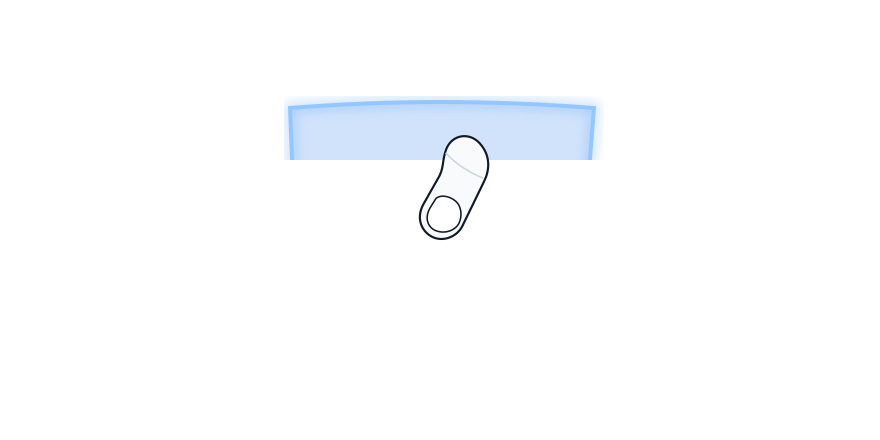
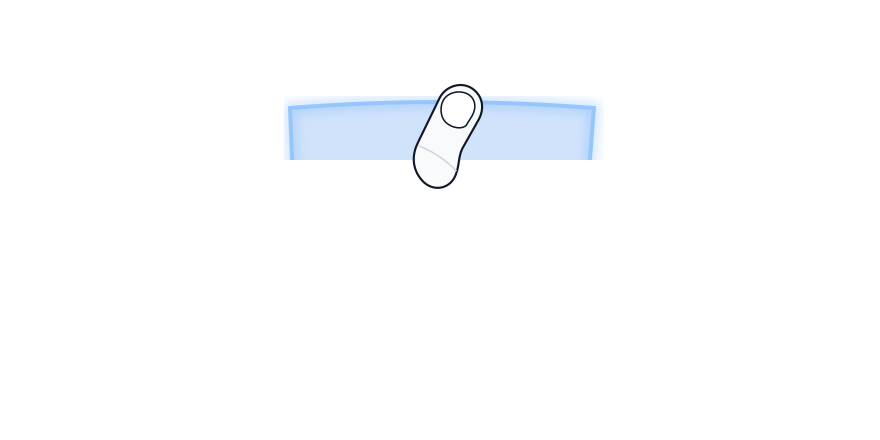
Fix DualSense remapping overlays

Changed region(s): [[0.4602, 0.1773, 0.583, 0.5614]]

diff --git a/DS4Windows/DS4Forms/ProfileEditor.xaml b/DS4Windows/DS4Forms/ProfileEditor.xaml
@@ -127,6 +127,14 @@
                             </Rectangle>
                         </Button>
 
+                        <Path x:Name="dualSenseHoverPath" IsHitTestVisible="False" Visibility="Collapsed"
+                              Fill="#662C7DF7" Stroke="{DynamicResource AccentColor}" StrokeThickness="1.5"
+                              StrokeLineJoin="Round" SnapsToDevicePixels="True">
+                            <Path.Effect>
+                                <DropShadowEffect Color="#FF2C7DF7" BlurRadius="10" ShadowDepth="0" Opacity="0.85" />
+                            </Path.Effect>
+                        </Path>
+
                         <Image x:Name="picBoxHover" IsEnabled="False" Source="{Binding Source={StaticResource resourcesPaths}, Path=DS4ConfigRSPNG}" Height="48" Width="48" Canvas.Left="447" Canvas.Top="5" />
                         <Image x:Name="picBoxHover2" IsEnabled="False" Source="{Binding Source={StaticResource resourcesPaths}, Path=DS4ConfigRSPNG}" Height="48" Width="48" Canvas.Left="0" Canvas.Top="0" Stretch="Fill" />
 

diff --git a/DS4Windows/DS4Forms/ProfileEditor.xaml.cs b/DS4Windows/DS4Forms/ProfileEditor.xaml.cs
@@ -58,6 +58,7 @@ namespace DS4WinWPF.DS4Forms
         private Dictionary<Button, HoverImageInfo> hoverLocations = new Dictionary<Button, HoverImageInfo>();
         private Dictionary<Button, int> hoverIndexes = new Dictionary<Button, int>();
         private Dictionary<int, Button> reverseHoverIndexes = new Dictionary<int, Button>();
+        private Dictionary<Button, Geometry> dualSenseHoverGeometries = new Dictionary<Button, Geometry>();
 
         private bool keepsize;
         private bool controllerReadingsTabActive = false;
@@ -168,6 +169,62 @@ namespace DS4WinWPF.DS4Forms
             ds4LightbarColorBtn.Width = 170;
             ds4LightbarColorBtn.Height = 84;
             lightbarRect.OpacityMask = new ImageBrush(LoadResourceImage("DualSense lightbar.png"));
+
+            PopulateDualSenseHoverGeometries();
+        }
+
+        private void PopulateDualSenseHoverGeometries()
+        {
+            Geometry cross = new EllipseGeometry(new Point(346.5, 140.5), 14, 14);
+            Geometry circle = new EllipseGeometry(new Point(376.5, 113.5), 14, 14);
+            Geometry square = new EllipseGeometry(new Point(316.5, 113.5), 14, 14);
+            Geometry triangle = new EllipseGeometry(new Point(346.5, 89.5), 14, 14);
+
+            dualSenseHoverGeometries[crossConBtn] = cross;
+            dualSenseHoverGeometries[circleConBtn] = circle;
+            dualSenseHoverGeometries[squareConBtn] = square;
+            dualSenseHoverGeometries[triangleConBtn] = triangle;
+
+            dualSenseHoverGeometries[l1ConBtn] = Geometry.Parse(
+                "M 70,24 Q 99,32 130,25 L 133,43 Q 101,56 67,44 Z");
+            dualSenseHoverGeometries[r1ConBtn] = Geometry.Parse(
+                "M 310,25 Q 341,32 370,24 L 373,44 Q 339,56 307,43 Z");
+            dualSenseHoverGeometries[l2ConBtn] = Geometry.Parse(
+                "M 75,0 L 124,0 Q 129,10 130,25 Q 100,34 70,25 Q 71,10 75,0 Z");
+            dualSenseHoverGeometries[r2ConBtn] = Geometry.Parse(
+                "M 317,0 L 366,0 Q 370,10 371,25 Q 341,34 311,25 Q 312,10 317,0 Z");
+
+            dualSenseHoverGeometries[shareConBtn] =
+                new RectangleGeometry(new Rect(116, 58, 15, 26), 7, 7);
+            dualSenseHoverGeometries[optionsConBtn] =
+                new RectangleGeometry(new Rect(310, 58, 15, 26), 7, 7);
+            dualSenseHoverGeometries[guideConBtn] =
+                new EllipseGeometry(new Point(220.5, 161), 15, 12);
+            dualSenseHoverGeometries[muteConBtn] =
+                new RectangleGeometry(new Rect(210, 177, 22, 10), 5, 5);
+
+            Geometry leftStick = new EllipseGeometry(new Point(156.5, 169), 31, 31);
+            dualSenseHoverGeometries[l3ConBtn] = leftStick;
+            dualSenseHoverGeometries[lsuConBtn] = leftStick;
+            dualSenseHoverGeometries[lsrConBtn] = leftStick;
+            dualSenseHoverGeometries[lsdConBtn] = leftStick;
+            dualSenseHoverGeometries[lslConBtn] = leftStick;
+
+            Geometry rightStick = new EllipseGeometry(new Point(284.5, 169), 31, 31);
+            dualSenseHoverGeometries[r3ConBtn] = rightStick;
+            dualSenseHoverGeometries[rsuConBtn] = rightStick;
+            dualSenseHoverGeometries[rsrConBtn] = rightStick;
+            dualSenseHoverGeometries[rsdConBtn] = rightStick;
+            dualSenseHoverGeometries[rslConBtn] = rightStick;
+
+            dualSenseHoverGeometries[upConBtn] = Geometry.Parse(
+                "M 84,78 Q 94,73 104,78 L 106,95 L 95,103 L 83,95 Z");
+            dualSenseHoverGeometries[rightConBtn] = Geometry.Parse(
+                "M 104,96 L 121,94 Q 132,98 136,106 Q 132,115 121,119 L 104,112 Z");
+            dualSenseHoverGeometries[downConBtn] = Geometry.Parse(
+                "M 83,112 L 95,105 L 106,112 L 104,130 Q 94,136 84,130 Z");
+            dualSenseHoverGeometries[leftConBtn] = Geometry.Parse(
+                "M 83,96 L 83,112 L 67,119 Q 56,115 54,106 Q 57,98 68,94 Z");
         }
 
         private static bool ShouldUseDualSenseDiagram(int device)
@@ -436,6 +493,10 @@ namespace DS4WinWPF.DS4Forms
                 {
                     InputControlHighlight(tempBtn);
                 }
+                else
+                {
+                    HideControllerHover();
+                }
             }
 
         }
@@ -702,6 +763,22 @@ namespace DS4WinWPF.DS4Forms
 
         private void PopulateHoverImages()
         {
+            if (usingDualSenseDiagram)
+            {
+                // DualSense buttons use the geometry layer. Only the illustrated
+                // touch gestures need bitmap overlays in this mode, so no DS4
+                // button artwork is loaded or available to leak into the canvas.
+                hoverImages[leftTouchConBtn] = new ImageBrush(
+                    LoadResourceImage("DualSense-Config_TouchLeft.png"));
+                hoverImages[multiTouchConBtn] = new ImageBrush(
+                    LoadResourceImage("DualSense-Config_TouchMulti.png"));
+                hoverImages[rightTouchConBtn] = new ImageBrush(
+                    LoadResourceImage("DualSense-Config_TouchRight.png"));
+                hoverImages[topTouchConBtn] = new ImageBrush(
+                    LoadResourceImage("DualSense-Config_TouchUpper.png"));
+                return;
+            }
+
             ImageSourceConverter sourceConverter = new ImageSourceConverter();
 
             ImageSource temp =
@@ -1067,25 +1144,30 @@ namespace DS4WinWPF.DS4Forms
 
         private void InputControlHighlight(Button control)
         {
-            if (hoverImages.TryGetValue(control, out ImageBrush tempBrush))
+            if (usingDualSenseDiagram && dualSenseHoverGeometries.TryGetValue(control, out Geometry geometry))
             {
-                picBoxHover.Source = tempBrush.ImageSource;
-                //picBoxHover.Width = tempBrush.ImageSource.Width * .8;
-                //picBoxHover.Height = tempBrush.ImageSource.Height * .8;
-                //control.Background = tempBrush;
-                //control.Background = new SolidColorBrush(Colors.Green);
-                //control.Width = tempBrush.ImageSource.Width;
-                //control.Height = tempBrush.ImageSource.Height;
+                picBoxHover.Visibility = Visibility.Hidden;
+                dualSenseHoverPath.Data = geometry;
+                dualSenseHoverPath.Visibility = Visibility.Visible;
             }
-
-            if (hoverLocations.TryGetValue(control, out HoverImageInfo tempInfo))
+            else
             {
-                Canvas.SetLeft(picBoxHover, tempInfo.point.X);
-                Canvas.SetTop(picBoxHover, tempInfo.point.Y);
-                picBoxHover.Width = tempInfo.size.Width;
-                picBoxHover.Height = tempInfo.size.Height;
-                picBoxHover.Stretch = Stretch.Fill;
-                picBoxHover.Visibility = Visibility.Visible;
+                dualSenseHoverPath.Visibility = Visibility.Collapsed;
+
+                if (hoverImages.TryGetValue(control, out ImageBrush tempBrush))
+                {
+                    picBoxHover.Source = tempBrush.ImageSource;
+                }
+
+                if (hoverLocations.TryGetValue(control, out HoverImageInfo tempInfo))
+                {
+                    Canvas.SetLeft(picBoxHover, tempInfo.point.X);
+                    Canvas.SetTop(picBoxHover, tempInfo.point.Y);
+                    picBoxHover.Width = tempInfo.size.Width;
+                    picBoxHover.Height = tempInfo.size.Height;
+                    picBoxHover.Stretch = Stretch.Fill;
+                    picBoxHover.Visibility = Visibility.Visible;
+                }
             }
 
             if (hoverIndexes.TryGetValue(control, out int tempIndex))
@@ -1117,11 +1199,15 @@ namespace DS4WinWPF.DS4Forms
 
         private void ContBtn_MouseLeave(object sender, MouseEventArgs e)
         {
-            //Button control = sender as Button;
-            //control.Background = new SolidColorBrush(Colors.Transparent);
+            HideControllerHover();
+        }
+
+        private void HideControllerHover()
+        {
             Canvas.SetLeft(picBoxHover, 0);
             Canvas.SetTop(picBoxHover, 0);
             picBoxHover.Visibility = Visibility.Hidden;
+            dualSenseHoverPath.Visibility = Visibility.Collapsed;
         }
 
         private void GyroOutModeCombo_SelectionChanged(object sender, SelectionChangedEventArgs e)
